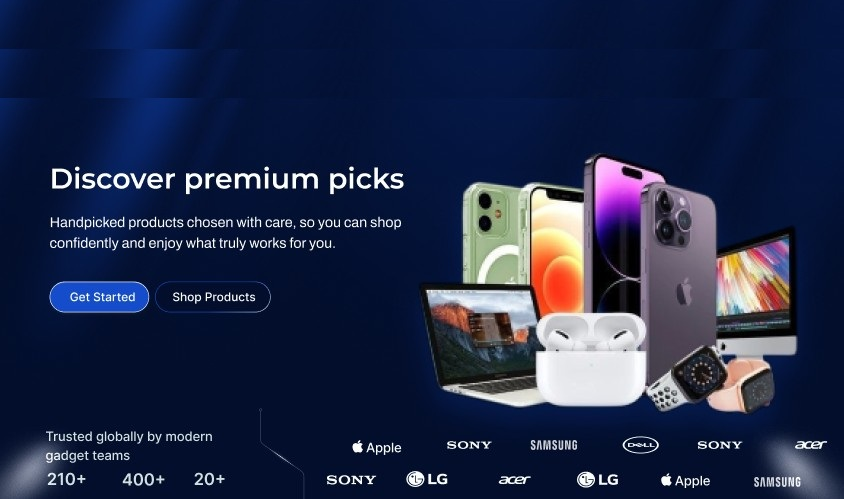
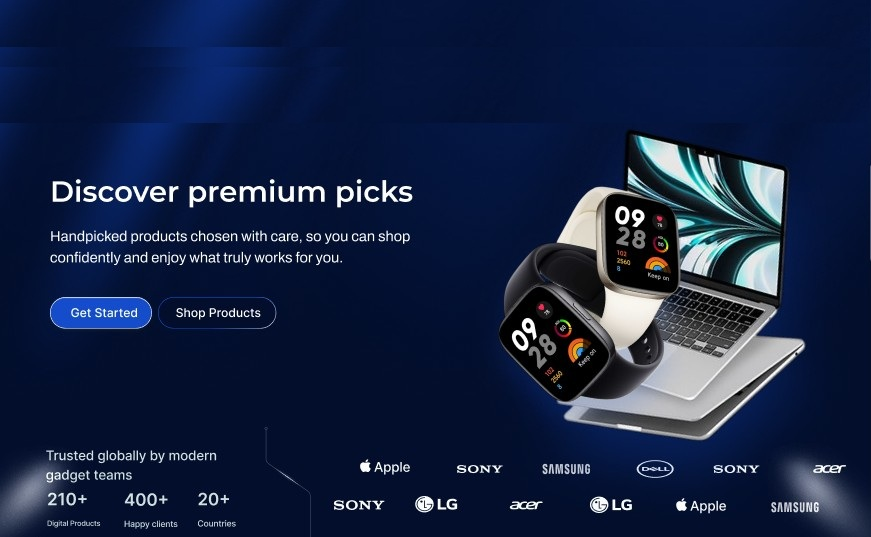
Cleanup

diff --git a/core/templates/core/home.html b/core/templates/core/home.html
@@ -13,8 +13,8 @@
   }
   #hero .carousel-item img {
     object-fit: cover;
-    width: 100%;
-    height: 100%;
+    width: 90%;
+    height: 90%;
   }
   #hero .carousel-caption {
     background: rgba(0,0,0,0.45); /* semi-transparent overlay */
